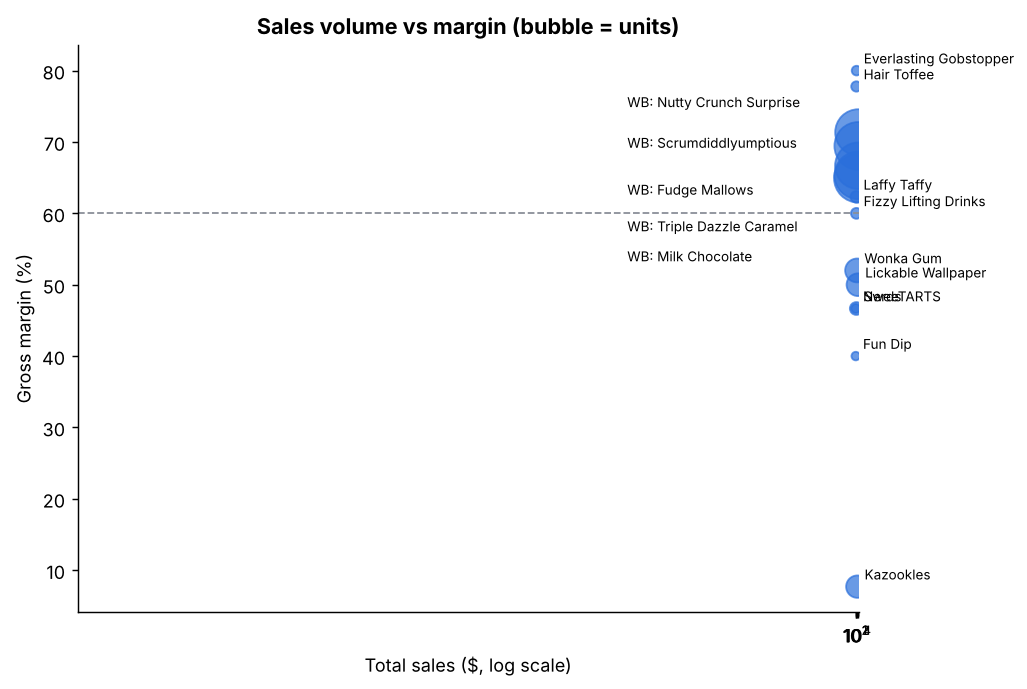
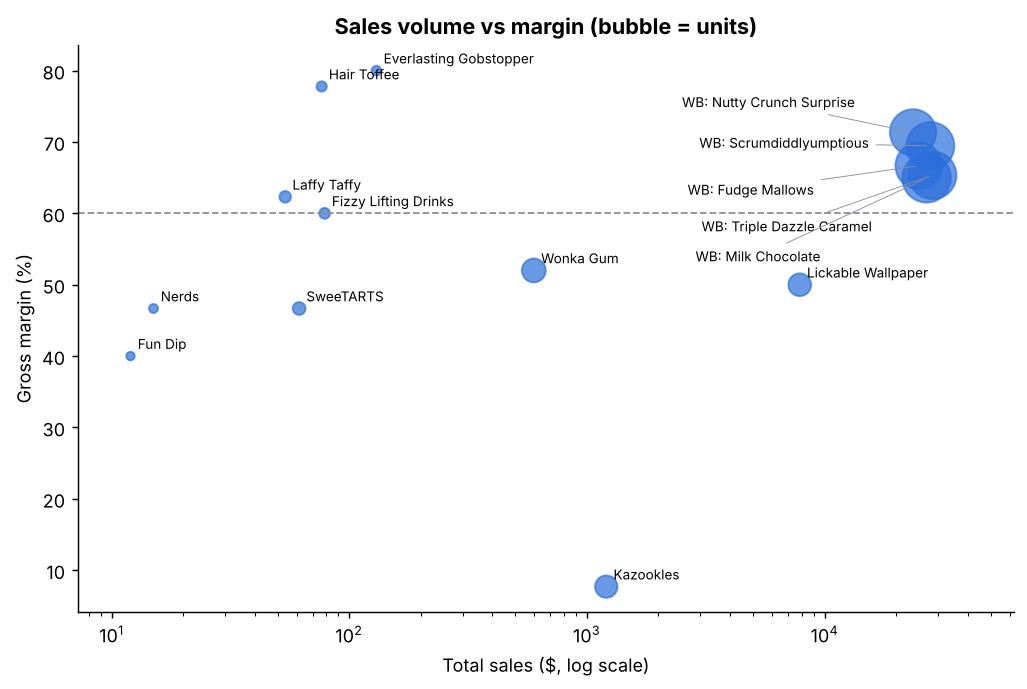
Fix sales-vs-margin chart labels

diff --git a/run_analysis.py b/run_analysis.py
@@ -86,9 +86,10 @@ def main():
         off = stagger.get(r["Product Name"], (4, 4))
         ax.annotate(SHORT(r["Product Name"]), (r["Sales"], r["GrossMargin"] * 100), fontsize=7.5,
                     xytext=(off[0] - 120 if r["Product Name"] in stagger else off[0], off[1]),
-                    textcoords="offset points", ha="left")
-    ax.set_xlim(right=diag["Sales"].max() * 1.6)
+                    textcoords="offset points", ha="left",
+                    arrowprops=dict(arrowstyle="-", color=GREY, lw=.5) if r["Product Name"] in stagger else None)
     ax.set_xscale("log"); ax.axhline(60, color=GREY, ls="--", lw=1)
+    ax.set_xlim(left=diag["Sales"].min() * 0.6, right=diag["Sales"].max() * 2.2)
     ax.set_xlabel("Total sales ($, log scale)"); ax.set_ylabel("Gross margin (%)")
     ax.set_title("Sales volume vs margin (bubble = units)")
     save(fig, "02_sales_vs_margin.png")
